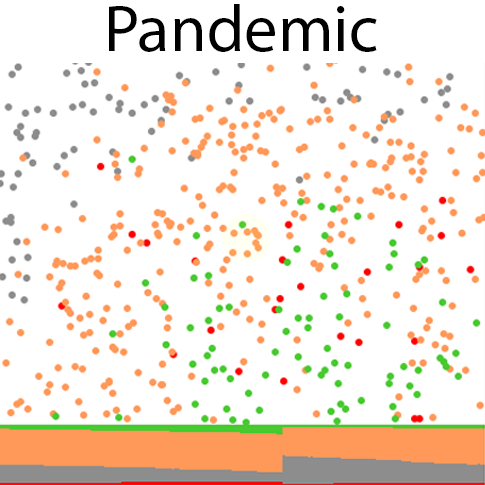
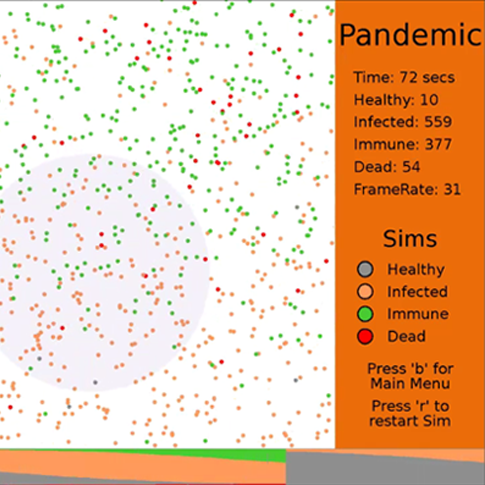
Completed the Thursday To Do List.

diff --git a/src/studentwork/Pandemic.java b/src/studentwork/Pandemic.java
@@ -18,12 +18,12 @@ public class Pandemic extends mqapp.MQApp {
   	public String author(){return "Elizabeth Cappellazzo";}
   	public String description(){return "Pandemic simulator";}
 
-	public static final int WIDTH      = 600;
-    public static final int HEIGHT     = 600;
+	public static final int WIDTH = 600;
+    public static final int HEIGHT = 600;
     public static final int GRAPH_HEIGHT = 50;
-    public static int SIMS       = 1000; //no. of sims
-    public static int SIM_SIZE   = 6; //size of the sims
-    public static final int MAX_MOVE   = 300; //max possible radius that sims can move
+    public static int SIMS = 1000; //no. of sims
+    public static int SIM_SIZE = 6; //size of the sims
+    public static final int MAX_MOVE = 300; //max possible radius that sims can move
     public static final int CONT_AFTER = 240; // 4 days - how long after contact does the sim get sick
     public static int DEATH_RATE = 10;  //self explanatory
     public static int ILL_FOR    = 840; // 14 days - how long the sim is sick for before dying or becoming immune
@@ -82,7 +82,6 @@ public class Pandemic extends mqapp.MQApp {
         background(100);
         translate(xTrans, yTrans);
         scale(scale);
-        //System.out.println("X: "+translateXRatio() + " Y: "+ translateYRatio() + " displayWidth: "+displayWidth + " displayHeight: " + displayHeight);
         mouse = new Point2D.Float((mouseX-xTrans)/scale,  (mouseY - yTrans)/scale);
         if(game_state == 0) { //start screen
             preGame();
@@ -145,12 +144,8 @@ public class Pandemic extends mqapp.MQApp {
 
         
     public void mouseClicked(){
-        pressedMouse = true;
         if (game_state == 1) {
-            //Point2D mouse = new Point2D.Float((mouseX-xTrans)/scale,  (mouseY - yTrans)/scale);
-            //System.out.println("MouseX: " + mouseX + " MouseY: " + mouseY + " calcX: " + (mouseX-translateXRatio())/scaleRatio() + " calcY: " + (mouseY - translateYRatio())/scaleRatio());
-            //System.out.println("translateX: " + translateXRatio() + " translateY: " + translateYRatio() + " scaleRatio: " + scaleRatio());
-            selected = p.simAtLocation(mouse); //simAtLocation needs to be updated for mouseX mouseY
+            selected = p.simAtLocation(mouse); 
         }
 
     }
@@ -175,6 +170,13 @@ public class Pandemic extends mqapp.MQApp {
             game_state = 1;
             reset();
         }
+        if ((key == 'd' || key == 'D') && game_state == 0) {
+            SIMS = 1000; 
+            SIM_SIZE = 6; 
+            DEATH_RATE = 10; 
+            ILL_FOR    = 840;
+            TRANS_RATE = 50; 
+        }
     }
 
     public void reset(){
@@ -195,7 +197,6 @@ public class Pandemic extends mqapp.MQApp {
 
         p.update(); //this updates the simulation
         drawCounters();
-        drawLegend();
         fill(255,255,255);
         rect(0,0,Pandemic.WIDTH,Pandemic.HEIGHT);
 
@@ -241,22 +242,22 @@ public class Pandemic extends mqapp.MQApp {
     {
         //infected, immune, dead, uninfected, timer
         //uninfected
-        fill(200);
+        fill(237, 108, 9);
         rect(WIDTH, 0, COUNTER_WIDTH, HEIGHT);
         textSize(40);
         textAlign(LEFT);
         fill(0);
 
-        fill(237, 108, 9);
-        text("Pandemic", WIDTH + 4, 45);
+        fill(0);
+        text("Pandemic", WIDTH + 4, 60);
         fill(0);
         textSize(20);
-        text("Time: "+timer() + " secs", WIDTH + 5, 80);
-        text("Healthy: "+p.numberUninfected(), WIDTH + 5, 110);
-        text("Infected: "+p.numberSick(), WIDTH + 5, 140);
-        text("Immune: "+p.numberImmune(), WIDTH + 5, 170);
-        text("Dead: "+p.numberDead(), WIDTH +  5, 200);
-        text("FrameRate: "+(int)frameRate, WIDTH +  5, 230);
+        text("Time: "+timer() + " secs", WIDTH + 25, 110);
+        text("Healthy: "+p.numberUninfected(), WIDTH + 25, 140);
+        text("Infected: "+p.numberSick(), WIDTH + 25, 170);
+        text("Immune: "+p.numberImmune(), WIDTH + 25, 200);
+        text("Dead: "+p.numberDead(), WIDTH +  25, 230);
+        text("FrameRate: "+(int)frameRate, WIDTH +  25, 260);
 
         //Sims
         textSize(30);
@@ -264,52 +265,60 @@ public class Pandemic extends mqapp.MQApp {
         text("Sims", WIDTH + 100, 330);
         textSize(20);
         textAlign(LEFT);
-        text("Healthy", WIDTH + 40, 360);
-        text("Infected", WIDTH + 40, 390);
-        text("Immune", WIDTH + 40, 420);
-        text("Dead", WIDTH + 40, 450);
+        text("Healthy", WIDTH + 70, 367);
+        text("Infected", WIDTH + 70, 397);
+        text("Immune", WIDTH + 70, 427);
+        text("Dead", WIDTH + 70, 457);
+
+        textAlign(CENTER);
+        text("Press 'b' for", WIDTH + 100, 500);
+        text("Main Menu", WIDTH + 100, 520);
+        text("Press 'r' to", WIDTH + 100, 550);
+        text("restart Sim", WIDTH + 100, 570);
 
         //circles
+        stroke(0);
+        strokeWeight(2);
         //Healthy
         fill(141, 141, 141);
-        ellipse(WIDTH+20, 360, 20,20);
+        ellipse(WIDTH+40, 360, 20,20);
         //Infected
         fill(255, 153, 90);
-        ellipse(WIDTH+20, 390, 20,20);
+        ellipse(WIDTH+40, 390, 20,20);
         //Immune
         fill(72, 202, 48);
-        ellipse(WIDTH+20, 420, 20,20);
+        ellipse(WIDTH+40, 420, 20,20);
         //Dead
         fill(255, 0, 0);
-        ellipse(WIDTH+20, 450, 20,20);
-
+        ellipse(WIDTH+40, 450, 20,20);
+        noStroke();
     }
 
-    public int timer()
-    {
+    public int timer() {
         int time = (millis()-startTimer)/1000;
         return time;
-
-    }
-
-    public void drawLegend()
-    {
-        int offsetY = 100;
-        int offsetX = 180;
-        fill(0,0,255, 20);
-        rect(WIDTH-offsetX, HEIGHT-offsetY, offsetX, offsetY);
     }
     
     public void preGame() {
     	background(0);
+        fill(237, 108, 9);
+        rect(0, 0, WIDTH+COUNTER_WIDTH,GRAPH_HEIGHT+HEIGHT);
         textAlign(CENTER);
         strokeWeight(3);
-        fill(255);
+        fill(0);
+        textSize(80);
+        
+        text("PANDEMIC", (WIDTH+COUNTER_WIDTH)/2, 150);
         textSize(20);
-        text("PANDEMIC", 200, 100);
-        text("PRESS SPACE BAR TO START THE GAME", 200, 150);
-        text("PRESS 'R' TO RE-SET THE GAME", 200, 250);
-        SIMS = toggle(400, 200, 50, 10, 1000, 1, SIMS);
+        
+        text("PRESS SPACE BAR TO START THE GAME", (WIDTH+COUNTER_WIDTH)/2, 600);
+        text("PRESS 'R' TO RESTART THE GAME", (WIDTH+COUNTER_WIDTH)/2, 200);
+        text("PRESS 'D' TO RESET THE VALUES", (WIDTH+COUNTER_WIDTH)/2, 240);
+        SIMS = toggle(400-25, 350, 50, 25, 1000, 1, SIMS, "Sim Count");
+        SIM_SIZE = toggle(80, 350, 50, 1, 20, 1, SIM_SIZE, "Sim Size");
+        DEATH_RATE = toggle( 220, 350, 50, 5, 100, 1, DEATH_RATE, "Death Rate");
+        TRANS_RATE = toggle( 670, 350, 50, 5, 100, 1, TRANS_RATE, "Infection Rate");
+        ILL_FOR = toggle(530, 350, 50, 25, 1000, 200, ILL_FOR, "Time Sick");
     }
     
     public void endScreen() {
@@ -317,36 +326,56 @@ public class Pandemic extends mqapp.MQApp {
                 displayTime = timer();
             }
             background(0);
+            float survivalRate = (float)(p.numberImmune() + p.numberUninfected())/SIMS * 100;
+            if (survivalRate >= 50) {
+                fill(99,255,120);
+            }
+            else {
+                fill(255,99,99);
+            }
+            rect(0, 0, WIDTH+COUNTER_WIDTH,GRAPH_HEIGHT+HEIGHT);
             textAlign(CENTER);
             strokeWeight(3);
-            fill(255);
+            fill(0);
             textSize(20);
-            text("Time: "+displayTime, 400, 200);
-            text("Healthy: "+p.numberUninfected(), 400, 250);
-            text("Infected: "+p.numberSick(), 400, 300);
-            text("Immune: "+p.numberImmune(), 400, 350);
-            text("Dead: "+p.numberDead(), 400, 400);   
+            text("Survival rate: " + survivalRate + "%", 400, 200);
+            text("Time: "+displayTime, 400, 250);
+            text("Healthy: "+p.numberUninfected(), 400, 300);
+            text("Infected: "+p.numberSick(), 400, 350);
+            text("Immune: "+p.numberImmune(), 400, 400);
+            text("Dead: "+p.numberDead(), 400, 450);
+            text("Press 'B' to return to the Main Menu", 400, 500);
+
+            textSize(80);
+            text("PANDEMIC", (WIDTH+COUNTER_WIDTH)/2, 150);
     }
 
-    public int toggle(int posX, int posY, int dim, int toggleAmount, int toggleMax, int toggleMin, int toggleValue) {
+    public int toggle(int posX, int posY, int dim, int toggleAmount, int toggleMax, int toggleMin, int toggleValue, String title) {
         stroke(0);
         fill(255);
         rect(posX, posY, dim, 2*dim);
-        fill(50);
+        fill(150);
         triangle(posX, posY+dim, posX+dim/2, posY, posX+dim, posY+dim);
         triangle(posX, posY+dim, posX+dim/2, posY+2*dim, posX+dim, posY+dim);
-        text(toggleValue, posX+dim+10, posY);
-        float mX = (mouseX-xTrans)/scale, mY = (mouseY - yTrans)/scale;
         if ((mousePressed) && (mouse.getY() >=posY) && (mouse.getY()<=dim+posY) && (mouse.getX()<=dim+posX) && (mouse.getX()>posX) && (toggleValue<toggleMax)) {
-            toggleValue=toggleValue+1;
-            System.out.println(toggleValue);
+            fill(50);
+            triangle(posX, posY+dim, posX+dim/2, posY, posX+dim, posY+dim);
+            toggleValue=toggleValue+toggleAmount;
+            delay(300);
         }
 
-        if ((mousePressed) && (mouse.getY() >=dim+posY) && (mouse.getY()<=2*dim+posY) && (mouse.getX()<=dim+posX) && (mouse.getX()>posX) && (toggleValue>toggleMin)) {
-            toggleValue=toggleValue-1;
-            System.out.println(toggleValue);
+        if ((mousePressed) && (mouse.getY() >=dim+posY) && (mouse.getY()<=2*dim+posY) && (mouse.getX()<=dim+posX) && (mouse.getX()>posX) && (toggleValue>toggleMin+toggleAmount)) {
+            fill(50);
+            triangle(posX, posY+dim, posX+dim/2, posY+2*dim, posX+dim, posY+dim);
+            toggleValue=toggleValue-toggleAmount;
+            delay(300);
         }
-        pressedMouse = false;
+        fill(255);
+        text(toggleValue, posX+dim/2, posY+dim*3);
+        text(title, posX + dim/2, posY - dim);
+        float mX = (mouseX-xTrans)/scale, mY = (mouseY - yTrans)/scale;
+        
+        //pressedMouse = false;
         return toggleValue;
     }
 }
